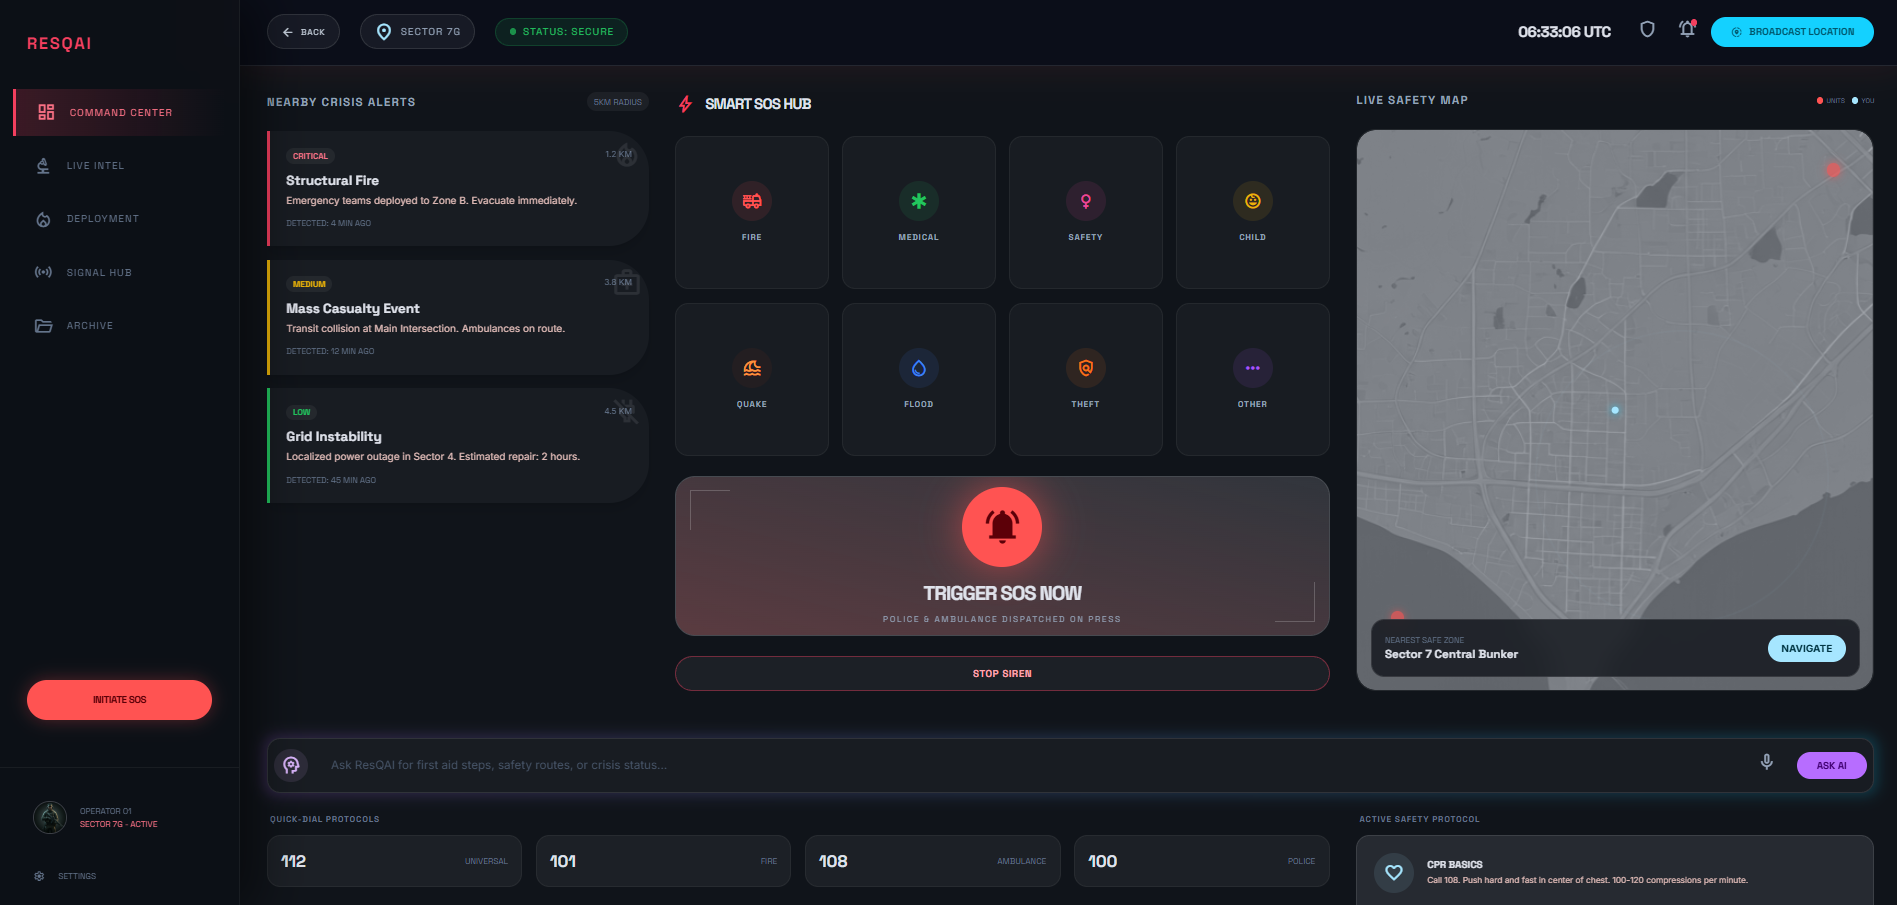
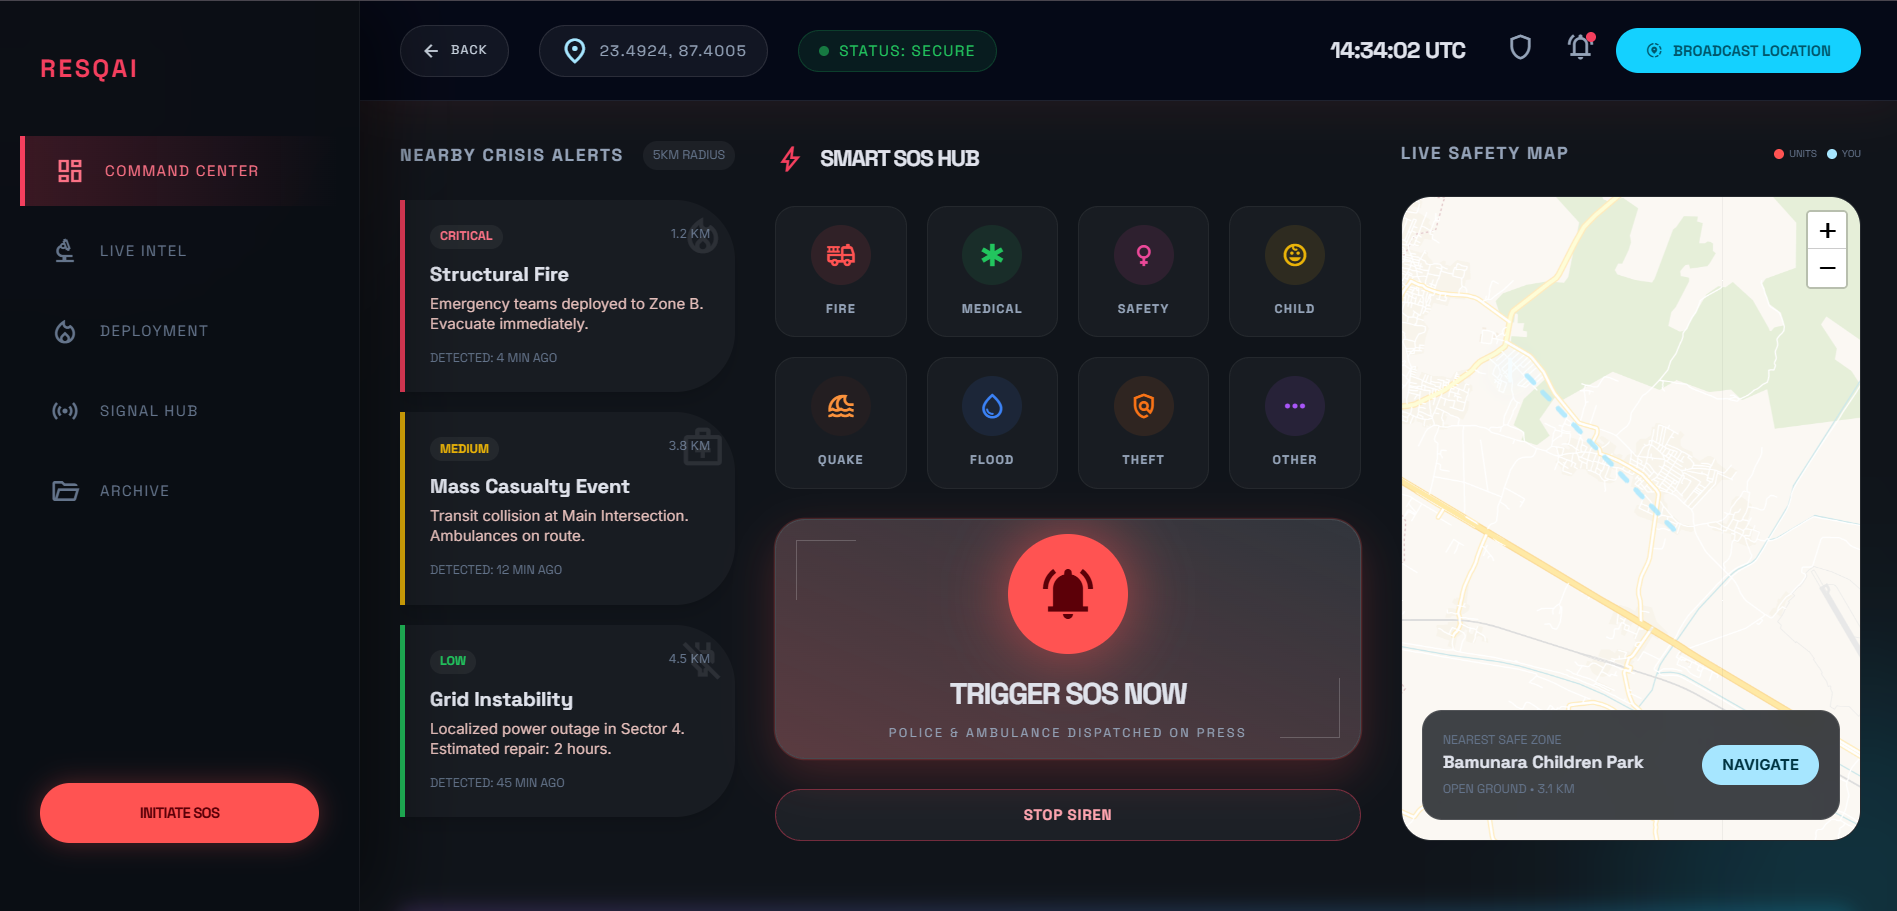
docs: fix corrupted characters in README and update screenshots

diff --git a/README.md b/README.md
@@ -244,7 +244,7 @@ NODE_ENV=development
 
 ---
 
-## ðŸš€ Production Deployment
+## Production Deployment
 
 - Current Render deployment: `https://resqai-mdo4.onrender.com/`
 - Browser geolocation works on Render because the deployment is served over HTTPS.
